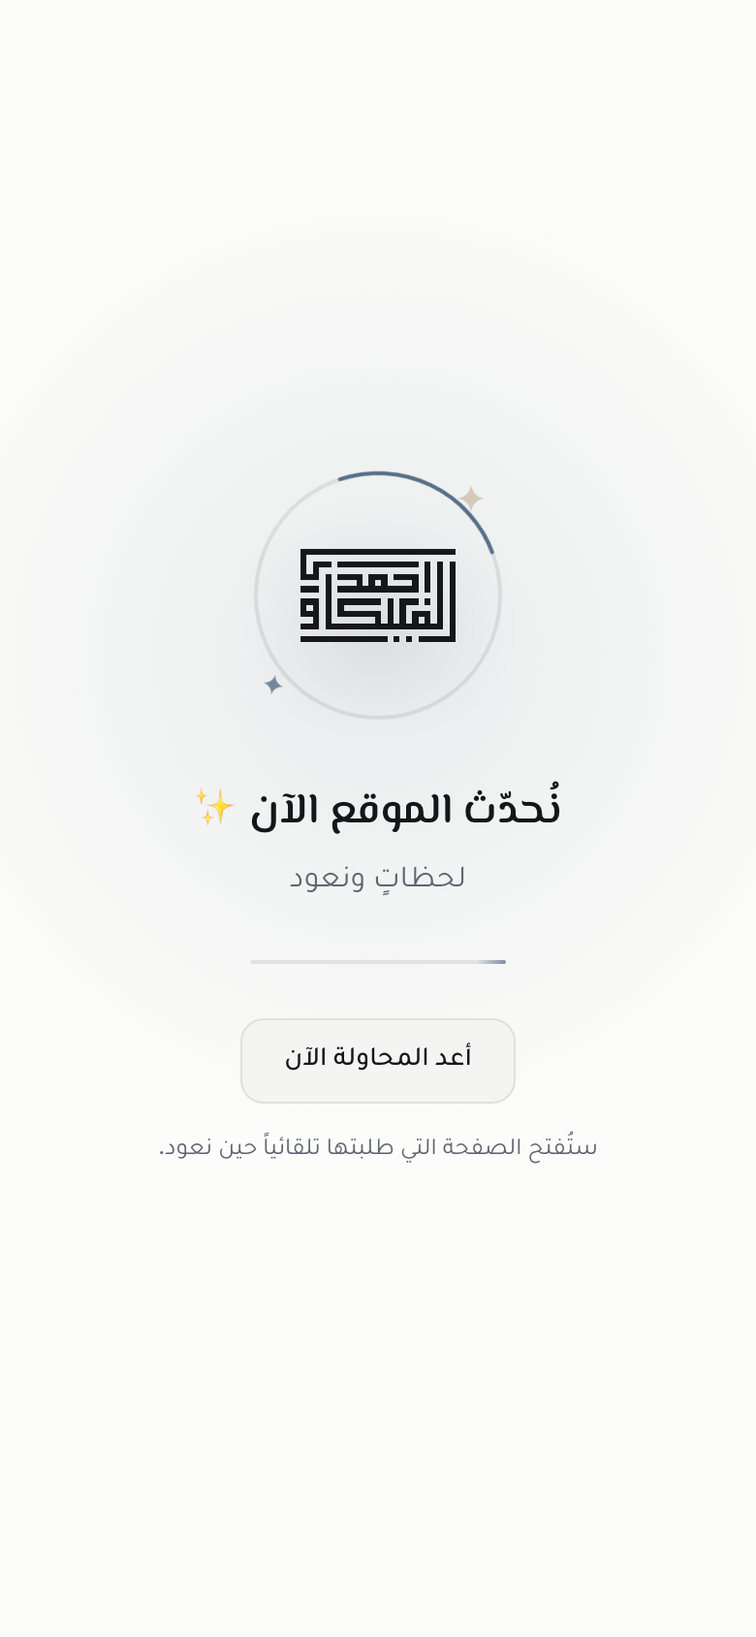
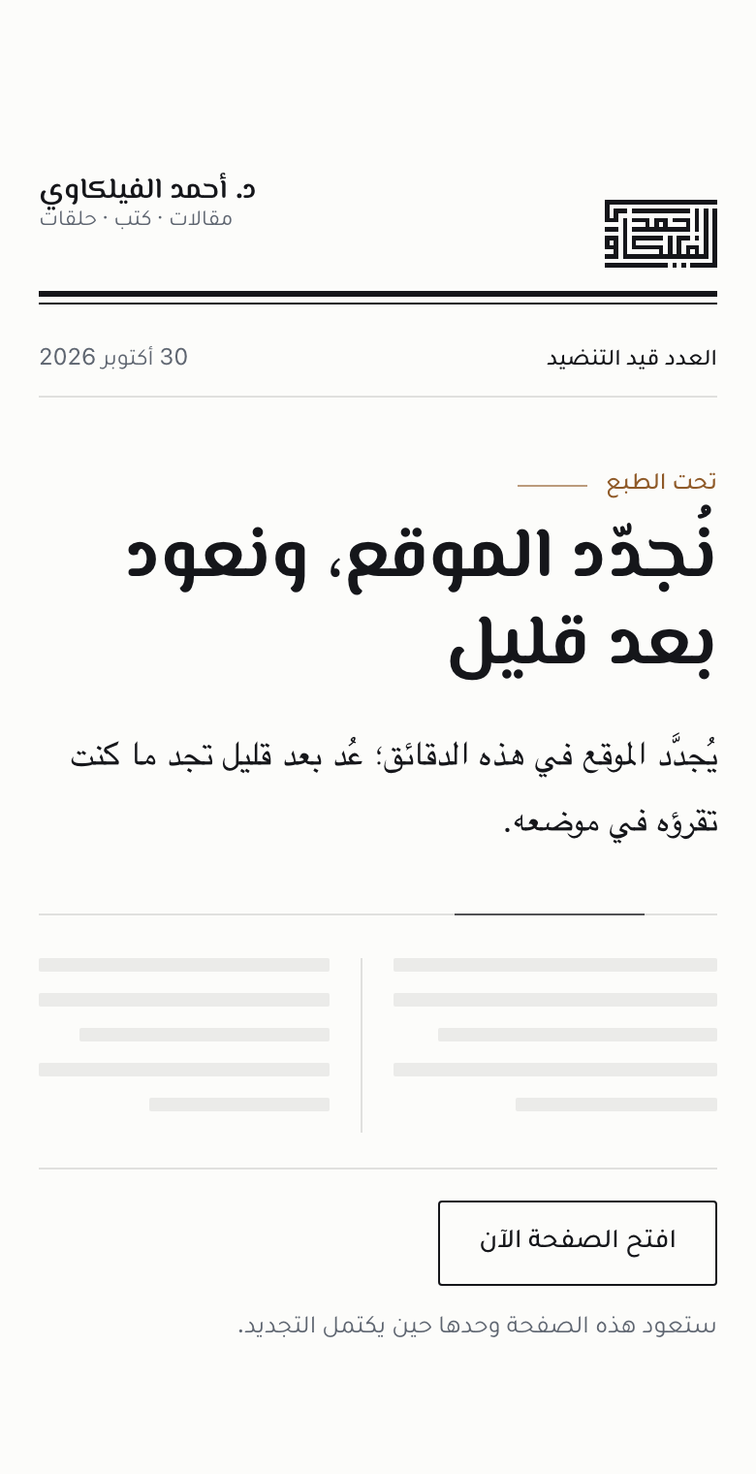
صفحة «الموقع قيد التحديث» بهوية الموقع: صفحةٌ من عددٍ يُنضَّد
- ترويسةٌ بالعلامة الكوفية وسطرٌ مطبعيّ مزدوج وسطرُ عددٍ مؤرَّخ، وعنوانٌ كبير بالمسيري، وفقرةٌ قصيرة بخطّ النسخ، وخطُّ مطبعةٍ يمرّ عليه الحبر ببطء بدل الحلقة الدوّارة.
- نصوصٌ جديدة بصوت الكاتب للحالات كلّها (العادية، وانقطاع الاتصال، والتأخّر)، وزرّ «افتح الصفحة الآن».
- الشريط داخل الصفحة صار قصاصةً حادّة الحوافّ بشعرة حبرٍ في أعلاها، بجملةٍ بالصوت نفسه؛ ومنطقُ ظهوره كما هو.
- الاختبارات: تحديث فحوص النصّ والترميز فقط، وفحوص السلوك باقية.
- لقطات 390 نهاراً وليلاً في docs/updating-page.

diff --git a/public/updating.html b/public/updating.html
@@ -1,6 +1,6 @@
 <!doctype html>
 <!--
-  صفحة «نُحدّث الموقع».
+  صفحة «الموقع قيد التحديث» — صفحةٌ من عددٍ يُنضَّد.
 
   أثناء النشر قد تجيب واجهةُ Google الأمامية عن فتح صفحةٍ بصفحة خطأٍ إنجليزية
   (500/502/503/504) لم يكتبها الموقع. عاملُ الخدمة (public/sw.js) يحفظ هذه الصفحة
@@ -17,81 +17,97 @@
 <meta name="viewport" content="width=device-width, initial-scale=1, viewport-fit=cover">
 <meta name="robots" content="noindex, nofollow">
 <meta name="theme-color" content="#FCFCFA">
-<title>نُحدّث الموقع · د. أحمد الفيلكاوي</title>
+<title>الموقع قيد التحديث · د. أحمد الفيلكاوي</title>
 <script src="/updating.js"></script>
 <style>
 @font-face{font-family:"El Messiri";font-weight:400 700;font-display:swap;src:url("/fonts/elmessiri-K2F0fZBRmr9vQ1pHEey6MoiAAgDwbWu1jw.woff2") format("woff2")}
 @font-face{font-family:"Tajawal";font-weight:400;font-display:swap;src:url("/fonts/tajawal-Iura6YBj_oCad4k1nzSBC5xLhLFw4Q.woff2") format("woff2")}
 @font-face{font-family:"Tajawal";font-weight:500;font-display:swap;src:url("/fonts/tajawal-Iurf6YBj_oCad4k1l8KiHrRpiZtK6GwN9w.woff2") format("woff2")}
 :root{
-  --bg:#FCFCFA;--ink:#15161A;--muted:#5E6570;--line:rgba(21,22,26,.09);
-  --accent:#3E5C78;--glow:rgba(62,92,120,.10);--ember:#8F5A28;
-  --button:#F4F5F3;--shadow:rgba(21,22,26,.18);
+  --paper:#FCFCFA;--ink:#15161A;--muted:#5E6570;--rule:#15161A;--hair:rgba(21,22,26,.12);
+  --slug:rgba(21,22,26,.075);--accent:#3E5C78;--ember:#8F5A28;--wash:#F4F5F3;
+  --serif:"Noto Naskh Arabic","Amiri","Geeza Pro","Traditional Arabic","Times New Roman",serif;
   color-scheme:light;
 }
 html.dark{
-  --bg:#111215;--ink:#ECEAE4;--muted:#B5B8BE;--line:rgba(234,234,231,.11);
-  --accent:#84A9CA;--glow:rgba(132,169,202,.14);--ember:#D6B78F;
-  --button:#171A1F;--shadow:rgba(0,0,0,.55);
+  --paper:#0F1115;--ink:#ECEAE4;--muted:#B5B8BE;--rule:#ECEAE4;--hair:rgba(234,234,231,.14);
+  --slug:rgba(234,234,231,.07);--accent:#84A9CA;--ember:#D6B78F;--wash:#171A1F;
   color-scheme:dark;
 }
 *{box-sizing:border-box}
-html,body{height:100%}
+html,body{min-height:100%}
 body{
-  margin:0;min-height:100%;display:grid;place-items:center;
-  padding:max(24px,env(safe-area-inset-top)) 16px max(24px,env(safe-area-inset-bottom));
-  background:radial-gradient(circle at 50% 40%,var(--glow),transparent 46%),var(--bg);
-  color:var(--ink);
+  margin:0;background:var(--paper);color:var(--ink);
   font-family:"Tajawal",system-ui,-apple-system,BlinkMacSystemFont,"Segoe UI","Noto Sans Arabic",Tahoma,sans-serif;
-  font-synthesis:none;-webkit-font-smoothing:antialiased;text-align:center;
+  font-synthesis:none;-webkit-font-smoothing:antialiased;
+  padding:max(28px,env(safe-area-inset-top)) 20px max(28px,env(safe-area-inset-bottom));
 }
-main{display:grid;justify-items:center;gap:0;max-width:420px;width:100%}
-.stage{position:relative;width:132px;height:132px;display:grid;place-items:center;margin-bottom:30px}
-.halo{position:absolute;inset:0;width:100%;height:100%;animation:turn 3.6s linear infinite}
-.halo circle{fill:none;stroke-width:2;stroke-linecap:round}
-.halo .track{stroke:var(--line)}
-.halo .arc{stroke:var(--accent);stroke-dasharray:96 400;opacity:.85}
-.mark{width:80px;height:48px;display:block;color:var(--ink);filter:drop-shadow(0 14px 24px var(--shadow));animation:breathe 2.4s cubic-bezier(.45,0,.25,1) infinite}
-.spark{position:absolute;fill:var(--ember);animation:twinkle 2.4s ease-in-out infinite}
-.spark.one{width:20px;height:20px;top:6px;inset-inline-start:8px}
-.spark.two{width:12px;height:12px;bottom:14px;inset-inline-end:6px;fill:var(--accent);animation-delay:1.2s}
-h1{margin:0;font-family:"El Messiri",serif;font-size:clamp(22px,5.6vw,27px);font-weight:600;line-height:1.5}
-.lead{margin:6px 0 0;font-size:16px;line-height:1.7;color:var(--muted)}
-.pulse{width:132px;height:2px;margin:26px 0 28px;border-radius:99px;background:var(--line);overflow:hidden}
-.pulse i{display:block;width:36%;height:100%;border-radius:inherit;background:linear-gradient(90deg,transparent,var(--accent),transparent);animation:scan 1.5s ease-in-out infinite}
+.sheet{max-width:600px;margin:0 auto;padding-top:clamp(0px,6vh,56px)}
+
+/* الترويسة: العلامة واسم الموقع، ثم سطران مطبعيّان وسطر العدد */
+.masthead{display:flex;align-items:flex-end;justify-content:space-between;gap:16px;padding-bottom:12px}
+.mark{width:58px;height:35px;display:block;color:var(--ink)}
+.name{font-family:"El Messiri",serif;font-size:15px;font-weight:600;letter-spacing:.01em;line-height:1.3;text-align:end}
+.name small{display:block;font-family:"Tajawal",sans-serif;font-size:11.5px;font-weight:400;color:var(--muted);letter-spacing:0}
+.rules{border-top:3px solid var(--rule);height:7px;border-bottom:1px solid var(--rule)}
+.issue{display:flex;justify-content:space-between;gap:12px;padding:8px 0 9px;border-bottom:1px solid var(--hair);font-size:12px;color:var(--muted);line-height:1.5}
+.issue b{font-weight:500;color:var(--ink)}
+
+/* المادّة */
+.kicker{margin:38px 0 0;font-size:12.5px;font-weight:500;color:var(--ember);display:flex;align-items:center;gap:10px}
+.kicker::after{content:"";flex:0 0 36px;height:1px;background:currentColor;opacity:.6}
+h1{margin:10px 0 0;font-family:"El Messiri",serif;font-weight:700;font-size:clamp(34px,9.4vw,52px);line-height:1.22;letter-spacing:-.005em}
+.lead{margin:18px 0 0;max-width:30em;font-family:var(--serif);font-size:18px;line-height:1.85;color:var(--ink)}
+
+/* خطّ المطبعة: شعرةٌ يمرّ عليها الحبر ببطء */
+.press{position:relative;height:1px;margin:30px 0 0;background:var(--hair);overflow:hidden}
+.press i{position:absolute;inset-block:0;inset-inline-start:0;width:28%;background:var(--ink);opacity:.7;animation:press 7s cubic-bezier(.45,0,.3,1) infinite alternate}
+
+/* الأعمدة قيد التنضيد: سطورٌ رماديّة لم يُصبّ فيها الحرف بعد */
+.galley{display:grid;grid-template-columns:1fr 1fr;gap:22px;margin-top:22px}
+.galley span{display:block;height:7px;margin-bottom:11px;background:var(--slug);border-radius:1px}
+.galley span:nth-child(3n){width:86%}
+.galley span:nth-child(5n){width:62%}
+.galley .col+.col{border-inline-start:1px solid var(--hair);padding-inline-start:22px}
+
+.foot{display:flex;flex-wrap:wrap;align-items:center;gap:12px 18px;margin-top:18px;padding-top:16px;border-top:1px solid var(--hair)}
 button{
-  min-height:44px;padding:0 22px;border-radius:12px;cursor:pointer;
-  border:1px solid var(--line);background:var(--button);color:var(--ink);
+  min-height:44px;padding:0 20px;border-radius:2px;cursor:pointer;
+  border:1px solid var(--ink);background:var(--paper);color:var(--ink);
   font:inherit;font-size:14px;font-weight:500;
-  transition:border-color .2s ease,transform .2s ease;
+  transition:background-color .2s ease,color .2s ease;
 }
-button:hover{border-color:var(--accent)}
-button:active{transform:scale(.98)}
+button:hover{background:var(--ink);color:var(--paper)}
 button:focus-visible{outline:2px solid var(--accent);outline-offset:3px}
-.note{min-height:20px;margin:14px 0 0;font-size:12.5px;line-height:1.6;color:var(--muted)}
-@keyframes turn{to{transform:rotate(360deg)}}
-@keyframes breathe{0%,100%{opacity:1;transform:none}50%{opacity:.72;transform:scale(.97)}}
-@keyframes twinkle{0%,100%{opacity:.25;transform:scale(.7) rotate(0)}50%{opacity:1;transform:scale(1) rotate(20deg)}}
-@keyframes scan{0%{transform:translateX(130%)}100%{transform:translateX(-360%)}}
-@media (prefers-reduced-motion:reduce){
-  .halo,.mark,.spark,.pulse i{animation:none}
-  .spark{opacity:.8}
-}
+.note{flex:1 1 200px;margin:0;min-height:20px;font-size:13px;line-height:1.7;color:var(--muted)}
+@keyframes press{from{transform:translateX(0)}to{transform:translateX(-257%)}}
+@media (max-width:420px){.galley{gap:16px}.galley .col+.col{padding-inline-start:16px}}
+@media (prefers-reduced-motion:reduce){.press i{animation:none;opacity:.35}}
 </style>
 </head>
 <body>
-<main>
-  <div class="stage" aria-hidden="true">
-    <svg class="halo" viewBox="0 0 132 132" focusable="false"><circle class="track" cx="66" cy="66" r="63"/><circle class="arc" cx="66" cy="66" r="63"/></svg>
-    <svg class="mark" viewBox="0 0 25 15" focusable="false" shape-rendering="crispEdges"><g fill="currentColor"><rect x="0" y="0" width="25" height="1"/><rect x="0" y="1" width="1" height="1"/><rect x="0" y="2" width="1" height="1"/><rect x="2" y="2" width="3" height="1"/><rect x="6" y="2" width="13" height="1"/><rect x="20" y="2" width="1" height="1"/><rect x="22" y="2" width="1" height="1"/><rect x="24" y="2" width="1" height="1"/><rect x="0" y="3" width="1" height="1"/><rect x="2" y="3" width="1" height="1"/><rect x="20" y="3" width="1" height="1"/><rect x="22" y="3" width="1" height="1"/><rect x="24" y="3" width="1" height="1"/><rect x="0" y="4" width="3" height="1"/><rect x="4" y="4" width="1" height="1"/><rect x="6" y="4" width="4" height="1"/><rect x="11" y="4" width="3" height="1"/><rect x="15" y="4" width="4" height="1"/><rect x="20" y="4" width="1" height="1"/><rect x="22" y="4" width="1" height="1"/><rect x="24" y="4" width="1" height="1"/><rect x="4" y="5" width="1" height="1"/><rect x="9" y="5" width="1" height="1"/><rect x="11" y="5" width="1" height="1"/><rect x="13" y="5" width="1" height="1"/><rect x="18" y="5" width="1" height="1"/><rect x="20" y="5" width="1" height="1"/><rect x="22" y="5" width="1" height="1"/><rect x="24" y="5" width="1" height="1"/><rect x="0" y="6" width="3" height="1"/><rect x="4" y="6" width="1" height="1"/><rect x="6" y="6" width="13" height="1"/><rect x="20" y="6" width="1" height="1"/><rect x="22" y="6" width="1" height="1"/><rect x="24" y="6" width="1" height="1"/><rect x="4" y="7" width="1" height="1"/><rect x="22" y="7" width="1" height="1"/><rect x="24" y="7" width="1" height="1"/><rect x="0" y="8" width="3" height="1"/><rect x="4" y="8" width="1" height="1"/><rect x="6" y="8" width="7" height="1"/><rect x="14" y="8" width="1" height="1"/><rect x="16" y="8" width="3" height="1"/><rect x="20" y="8" width="1" height="1"/><rect x="22" y="8" width="1" height="1"/><rect x="24" y="8" width="1" height="1"/><rect x="0" y="9" width="1" height="1"/><rect x="2" y="9" width="1" height="1"/><rect x="4" y="9" width="1" height="1"/><rect x="6" y="9" width="1" height="1"/><rect x="14" y="9" width="1" height="1"/><rect x="16" y="9" width="1" height="1"/><rect x="22" y="9" width="1" height="1"/><rect x="24" y="9" width="1" height="1"/><rect x="0" y="10" width="3" height="1"/><rect x="4" y="10" width="1" height="1"/><rect x="6" y="10" width="7" height="1"/><rect x="14" y="10" width="1" height="1"/><rect x="16" y="10" width="1" height="1"/><rect x="18" y="10" width="3" height="1"/><rect x="22" y="10" width="1" height="1"/><rect x="24" y="10" width="1" height="1"/><rect x="2" y="11" width="1" height="1"/><rect x="4" y="11" width="1" height="1"/><rect x="12" y="11" width="1" height="1"/><rect x="14" y="11" width="1" height="1"/><rect x="16" y="11" width="1" height="1"/><rect x="18" y="11" width="1" height="1"/><rect x="20" y="11" width="1" height="1"/><rect x="22" y="11" width="1" height="1"/><rect x="24" y="11" width="1" height="1"/><rect x="0" y="12" width="3" height="1"/><rect x="4" y="12" width="19" height="1"/><rect x="24" y="12" width="1" height="1"/><rect x="24" y="13" width="1" height="1"/><rect x="0" y="14" width="14" height="1"/><rect x="15" y="14" width="1" height="1"/><rect x="17" y="14" width="1" height="1"/><rect x="19" y="14" width="6" height="1"/></g></svg>
-    <svg class="spark one" viewBox="0 0 24 24" focusable="false"><path d="M12 0c.7 6.4 5.6 11.3 12 12-6.4.7-11.3 5.6-12 12-.7-6.4-5.6-11.3-12-12C6.4 11.3 11.3 6.4 12 0z"/></svg>
-    <svg class="spark two" viewBox="0 0 24 24" focusable="false"><path d="M12 0c.7 6.4 5.6 11.3 12 12-6.4.7-11.3 5.6-12 12-.7-6.4-5.6-11.3-12-12C6.4 11.3 11.3 6.4 12 0z"/></svg>
+<main class="sheet">
+  <header class="masthead">
+    <svg class="mark" viewBox="0 0 25 15" focusable="false" aria-hidden="true" shape-rendering="crispEdges"><g fill="currentColor"><rect x="0" y="0" width="25" height="1"/><rect x="0" y="1" width="1" height="1"/><rect x="0" y="2" width="1" height="1"/><rect x="2" y="2" width="3" height="1"/><rect x="6" y="2" width="13" height="1"/><rect x="20" y="2" width="1" height="1"/><rect x="22" y="2" width="1" height="1"/><rect x="24" y="2" width="1" height="1"/><rect x="0" y="3" width="1" height="1"/><rect x="2" y="3" width="1" height="1"/><rect x="20" y="3" width="1" height="1"/><rect x="22" y="3" width="1" height="1"/><rect x="24" y="3" width="1" height="1"/><rect x="0" y="4" width="3" height="1"/><rect x="4" y="4" width="1" height="1"/><rect x="6" y="4" width="4" height="1"/><rect x="11" y="4" width="3" height="1"/><rect x="15" y="4" width="4" height="1"/><rect x="20" y="4" width="1" height="1"/><rect x="22" y="4" width="1" height="1"/><rect x="24" y="4" width="1" height="1"/><rect x="4" y="5" width="1" height="1"/><rect x="9" y="5" width="1" height="1"/><rect x="11" y="5" width="1" height="1"/><rect x="13" y="5" width="1" height="1"/><rect x="18" y="5" width="1" height="1"/><rect x="20" y="5" width="1" height="1"/><rect x="22" y="5" width="1" height="1"/><rect x="24" y="5" width="1" height="1"/><rect x="0" y="6" width="3" height="1"/><rect x="4" y="6" width="1" height="1"/><rect x="6" y="6" width="13" height="1"/><rect x="20" y="6" width="1" height="1"/><rect x="22" y="6" width="1" height="1"/><rect x="24" y="6" width="1" height="1"/><rect x="4" y="7" width="1" height="1"/><rect x="22" y="7" width="1" height="1"/><rect x="24" y="7" width="1" height="1"/><rect x="0" y="8" width="3" height="1"/><rect x="4" y="8" width="1" height="1"/><rect x="6" y="8" width="7" height="1"/><rect x="14" y="8" width="1" height="1"/><rect x="16" y="8" width="3" height="1"/><rect x="20" y="8" width="1" height="1"/><rect x="22" y="8" width="1" height="1"/><rect x="24" y="8" width="1" height="1"/><rect x="0" y="9" width="1" height="1"/><rect x="2" y="9" width="1" height="1"/><rect x="4" y="9" width="1" height="1"/><rect x="6" y="9" width="1" height="1"/><rect x="14" y="9" width="1" height="1"/><rect x="16" y="9" width="1" height="1"/><rect x="22" y="9" width="1" height="1"/><rect x="24" y="9" width="1" height="1"/><rect x="0" y="10" width="3" height="1"/><rect x="4" y="10" width="1" height="1"/><rect x="6" y="10" width="7" height="1"/><rect x="14" y="10" width="1" height="1"/><rect x="16" y="10" width="1" height="1"/><rect x="18" y="10" width="3" height="1"/><rect x="22" y="10" width="1" height="1"/><rect x="24" y="10" width="1" height="1"/><rect x="2" y="11" width="1" height="1"/><rect x="4" y="11" width="1" height="1"/><rect x="12" y="11" width="1" height="1"/><rect x="14" y="11" width="1" height="1"/><rect x="16" y="11" width="1" height="1"/><rect x="18" y="11" width="1" height="1"/><rect x="20" y="11" width="1" height="1"/><rect x="22" y="11" width="1" height="1"/><rect x="24" y="11" width="1" height="1"/><rect x="0" y="12" width="3" height="1"/><rect x="4" y="12" width="19" height="1"/><rect x="24" y="12" width="1" height="1"/><rect x="24" y="13" width="1" height="1"/><rect x="0" y="14" width="14" height="1"/><rect x="15" y="14" width="1" height="1"/><rect x="17" y="14" width="1" height="1"/><rect x="19" y="14" width="6" height="1"/></g></svg>
+    <p class="name">د. أحمد الفيلكاوي<small>مقالات · كتب · حلقات</small></p>
+  </header>
+  <div class="rules" aria-hidden="true"></div>
+  <p class="issue"><span><b>العدد قيد التنضيد</b></span><span id="issue-date">اليوم</span></p>
+
+  <p class="kicker">تحت الطبع</p>
+  <h1 id="title">نُجدّد الموقع، ونعود بعد قليل</h1>
+  <p class="lead" id="lead">يُجدَّد الموقع في هذه الدقائق؛ عُد بعد قليل تجد ما كنت تقرؤه في موضعه.</p>
+
+  <div class="press" aria-hidden="true"><i></i></div>
+  <div class="galley" aria-hidden="true">
+    <div class="col"><span></span><span></span><span></span><span></span><span></span></div>
+    <div class="col"><span></span><span></span><span></span><span></span><span></span></div>
   </div>
-  <h1 id="title">نُحدّث الموقع الآن ✨</h1>
-  <p class="lead" id="lead">لحظاتٍ ونعود</p>
-  <div class="pulse" aria-hidden="true"><i></i></div>
-  <button type="button" id="retry">أعد المحاولة الآن</button>
-  <p class="note" id="note" role="status" aria-live="polite">ستُفتح الصفحة التي طلبتها تلقائياً حين نعود.</p>
+
+  <div class="foot">
+    <button type="button" id="retry">افتح الصفحة الآن</button>
+    <p class="note" id="note" role="status" aria-live="polite">ستعود هذه الصفحة وحدها حين يكتمل التجديد.</p>
+  </div>
 </main>
 </body>
 </html>

diff --git a/public/updating.js b/public/updating.js
@@ -1,5 +1,5 @@
 /*
- * منطق صفحة «نُحدّث الموقع» (public/updating.html).
+ * منطق صفحة «الموقع قيد التحديث» (public/updating.html).
  *
  * ملفٌّ خارجي لأن سياسة CSP في الموقع تمنع السكربت المضمّن. يُحمَّل في <head>
  * بلا defer: يضع سمة الليل قبل أول رسمٍ إن اختارها الزائر بنفسه (theme-choice،
@@ -46,20 +46,30 @@
     else location.reload();
   }
 
+  var HEADLINE = 'نُجدّد الموقع، ونعود بعد قليل';
   function describe() {
     if (navigator.onLine === false) {
-      title.textContent = 'لا اتصال بالإنترنت الآن';
-      lead.textContent = 'سنعود تلقائياً حين يعود الاتصال';
+      title.textContent = 'انقطع الاتصال بالإنترنت';
+      lead.textContent = 'ما كنت تقرؤه باقٍ في موضعه؛ ستعود الصفحة وحدها حين يعود الاتصال.';
       note.textContent = '';
     } else if (stuck()) {
-      title.textContent = 'نُحدّث الموقع الآن ✨';
-      lead.textContent = 'يستغرق ذلك وقتاً أطول من المعتاد';
-      note.textContent = 'سنحاول مرّةً كل نصف دقيقة، ويمكنك المحاولة الآن.';
+      title.textContent = HEADLINE;
+      lead.textContent = 'يطول التجديد هذه المرّة أكثر من عادته، وما كنت تقرؤه باقٍ في موضعه.';
+      note.textContent = 'سنعيد المحاولة كل نصف دقيقة، ولك أن تفتح الصفحة الآن.';
     } else {
-      title.textContent = 'نُحدّث الموقع الآن ✨';
-      lead.textContent = 'لحظاتٍ ونعود';
-      note.textContent = 'ستُفتح الصفحة التي طلبتها تلقائياً حين نعود.';
+      title.textContent = HEADLINE;
+      lead.textContent = 'يُجدَّد الموقع في هذه الدقائق؛ عُد بعد قليل تجد ما كنت تقرؤه في موضعه.';
+      note.textContent = 'ستعود هذه الصفحة وحدها حين يكتمل التجديد.';
     }
+  }
+
+  /* سطر العدد: تاريخ اليوم بتوقيت الكويت. */
+  function dateIssue() {
+    var slot = document.getElementById('issue-date');
+    if (!slot) return;
+    try {
+      slot.textContent = new Intl.DateTimeFormat('ar-KW-u-nu-latn', { dateStyle: 'long', timeZone: 'Asia/Kuwait' }).format(new Date());
+    } catch (error) { /* يبقى «اليوم» */ }
   }
 
   function wait() {
@@ -92,6 +102,7 @@
     lead = document.getElementById('lead');
     note = document.getElementById('note');
     if (!title || !lead || !note) return;
+    dateIssue();
     var retry = document.getElementById('retry');
     if (retry) retry.addEventListener('click', reopen);
     window.addEventListener('online', function () { describe(); ask(); });

diff --git a/src/lib/updating-notice.ts b/src/lib/updating-notice.ts
@@ -1,9 +1,10 @@
 /*
- * «نُحدّث الموقع» داخل الصفحة.
+ * «الموقع قيد التحديث» داخل الصفحة.
  *
  * أثناء نشر خادم dr-api على Cloud Run تجيب واجهةُ Google الأمامية طلباتِ /api
  * بصفحة HTML إنجليزية (500/502/503/504) لم يكتبها الخادم — هو يجيب /api بـJSON.
- * هنا يُعرف ذلك الجواب فيظهر شريطٌ هادئ واحد أسفل الصفحة، ويسأل /api/version
+ * هنا يُعرف ذلك الجواب فيظهر أسفل الصفحة سطرٌ واحد كقصاصة تصحيح: حوافّ
+ * مطبعيّة حادّة وشعرةُ حبرٍ في أعلاه، لا كبسولةٌ عائمة، ويسأل /api/version
  * كل ثلاث ثوانٍ (ويتباطأ إلى خمس عشرة) حتى يعود الخادم فيختفي ويُطلق
  * SERVER_BACK_EVENT على window.
  *
@@ -12,7 +13,7 @@
 
 const UPDATING_STATUSES = new Set([500, 502, 503, 504])
 
-export const UPDATING_MESSAGE = 'نُحدّث الموقع الآن ✨ لحظاتٍ ونعود.'
+export const UPDATING_MESSAGE = 'يُجدَّد الموقع الآن؛ تعود الصفحة وحدها بعد قليل.'
 /** يُطلق على window حين يعود الخادم. */
 export const SERVER_BACK_EVENT = 'alfailakawi:server-back'
 const HEALTH_URL = '/api/version'
@@ -34,10 +35,11 @@ export function showUpdatingNotice(probe: () => Promise<boolean>): void {
   bar.dir = 'rtl'
   bar.textContent = UPDATING_MESSAGE
   bar.style.cssText = [
-    'position:fixed', 'inset-inline:0', 'bottom:max(18px,env(safe-area-inset-bottom))', 'margin:0 auto', 'width:max-content', 'max-width:calc(100vw - 32px)',
-    'z-index:2147483000', 'padding:11px 18px', 'border-radius:12px', 'font-family:inherit', 'font-size:14px', 'font-weight:500', 'line-height:1.6',
-    'background:rgb(var(--c-wash,244 245 243))', 'color:rgb(var(--c-ink,21 22 26))', 'border:1px solid var(--c-hair,rgba(21,22,26,.09))',
-    'box-shadow:0 12px 28px -18px rgba(21,22,26,.35)', 'text-align:center', 'pointer-events:none',
+    'position:fixed', 'inset-inline:16px', 'bottom:max(16px,env(safe-area-inset-bottom))', 'margin:0 auto', 'width:auto', 'max-width:560px',
+    'z-index:2147483000', 'padding:10px 16px 11px', 'border-radius:2px', 'font-family:inherit', 'font-size:14px', 'font-weight:500', 'line-height:1.6',
+    'background:rgb(var(--c-canvas,252 252 250))', 'color:rgb(var(--c-ink,21 22 26))',
+    'border:1px solid var(--c-hair,rgba(21,22,26,.09))', 'border-top:2px solid rgb(var(--c-ink,21 22 26))',
+    'box-shadow:0 10px 24px -20px rgba(21,22,26,.45)', 'text-align:start', 'pointer-events:none',
   ].join(';')
   document.body.appendChild(bar)
   notice = bar
